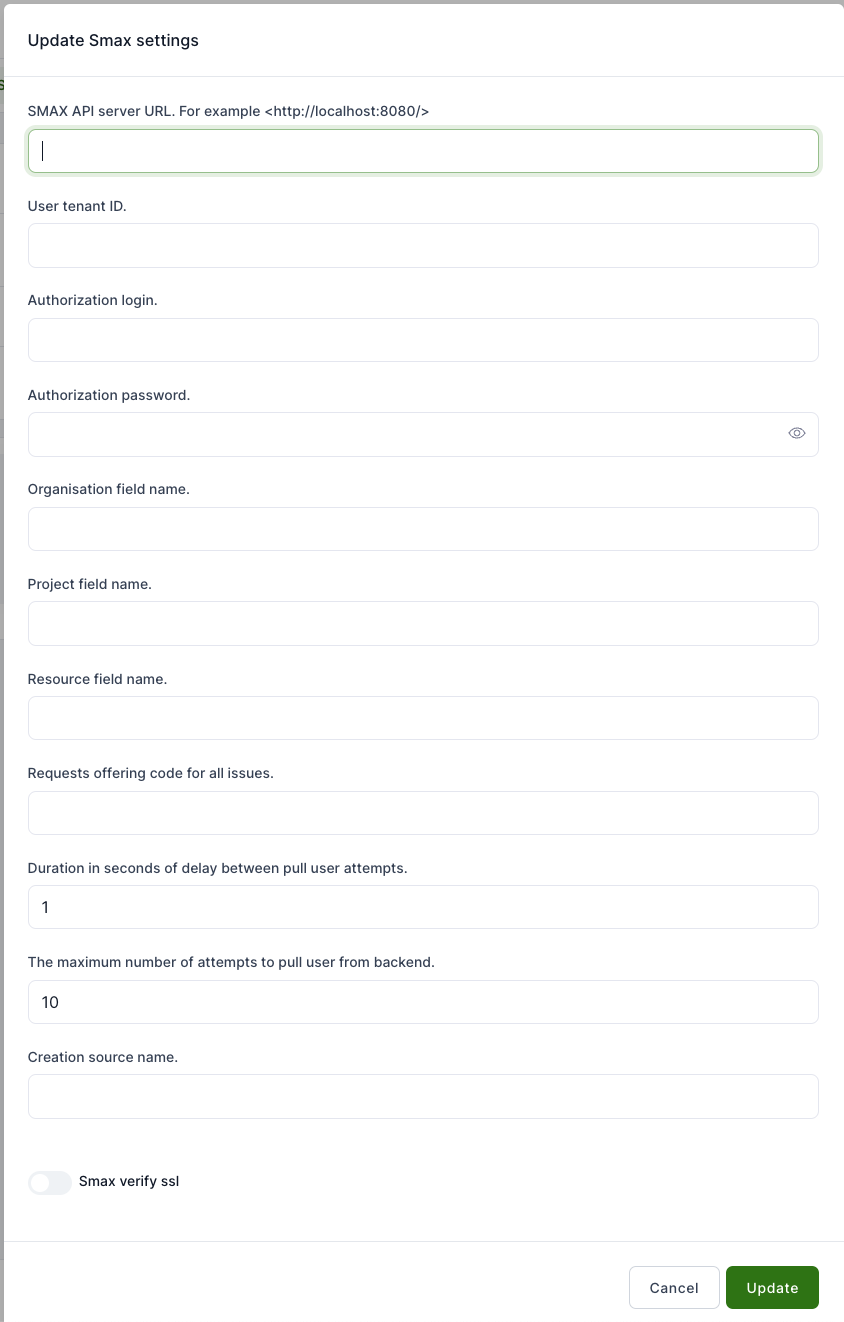
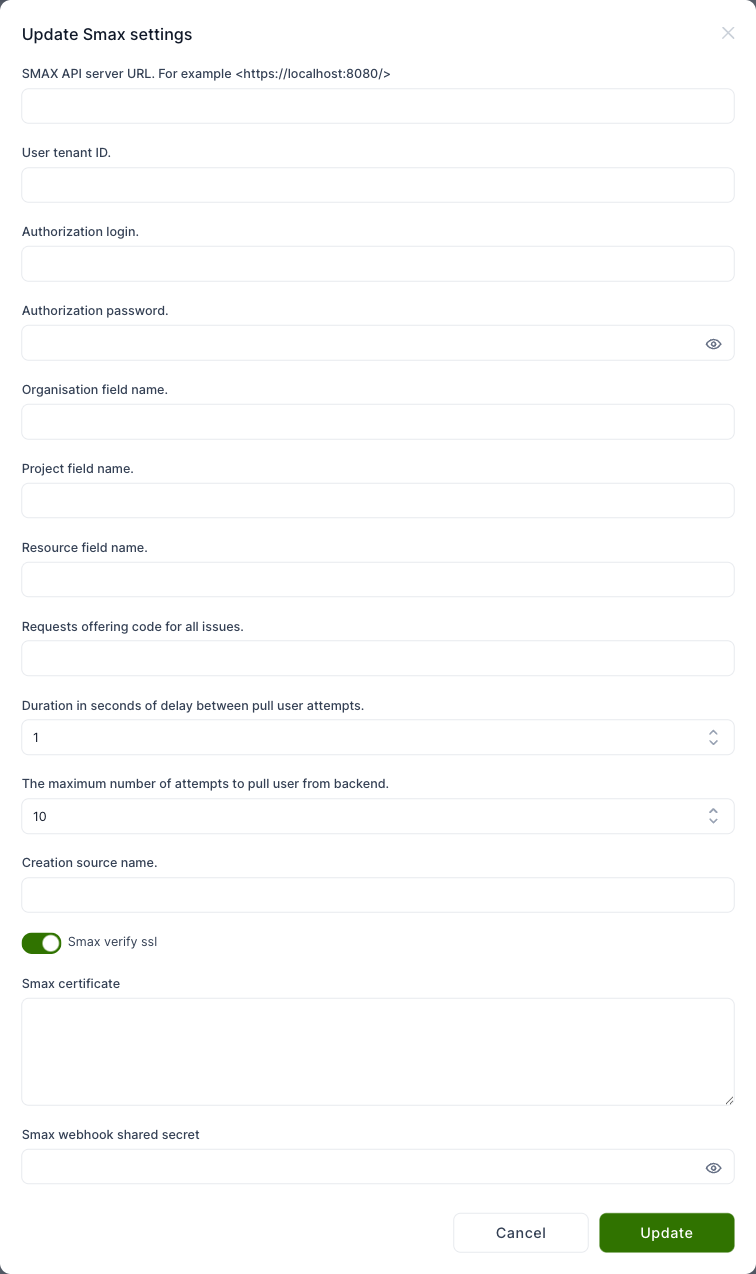
Document SMAX custom CA certificate and webhook secret settings [WAL-10027]

diff --git a/docs/user-guide/staff-users/service-desk/service-desk-config.md b/docs/user-guide/staff-users/service-desk/service-desk-config.md
@@ -85,5 +85,7 @@ A popup will appear. Fill in the required fields and click **Update**.
 * **The maximum number of attempts to pull user from backend** - Set the maximum number of attempts to pull user data from the backend before the process is stopped.
 * **Creation source name** - Specify the source name used when creating tickets or records in SMAX.
 * **Smax verify ssl** - Toggle this setting to enable or disable SSL verification when communicating with the SMAX server.
+* **Smax certificate** - Optionally provide a custom CA certificate (PEM format) used to validate the TLS connection to the SMAX server. When set, it overrides the default CA bundle. This is useful when SMAX is hosted internally with a corporate or self-signed CA. The certificate is ignored if SSL verification is disabled.
+* **Smax webhook shared secret** - Shared secret expected in the `X-Webhook-Secret` header of inbound SMAX webhook deliveries. If left empty, webhook authentication is not enforced.
 
 ![Smax configuration](../../img/Smax_config.png)